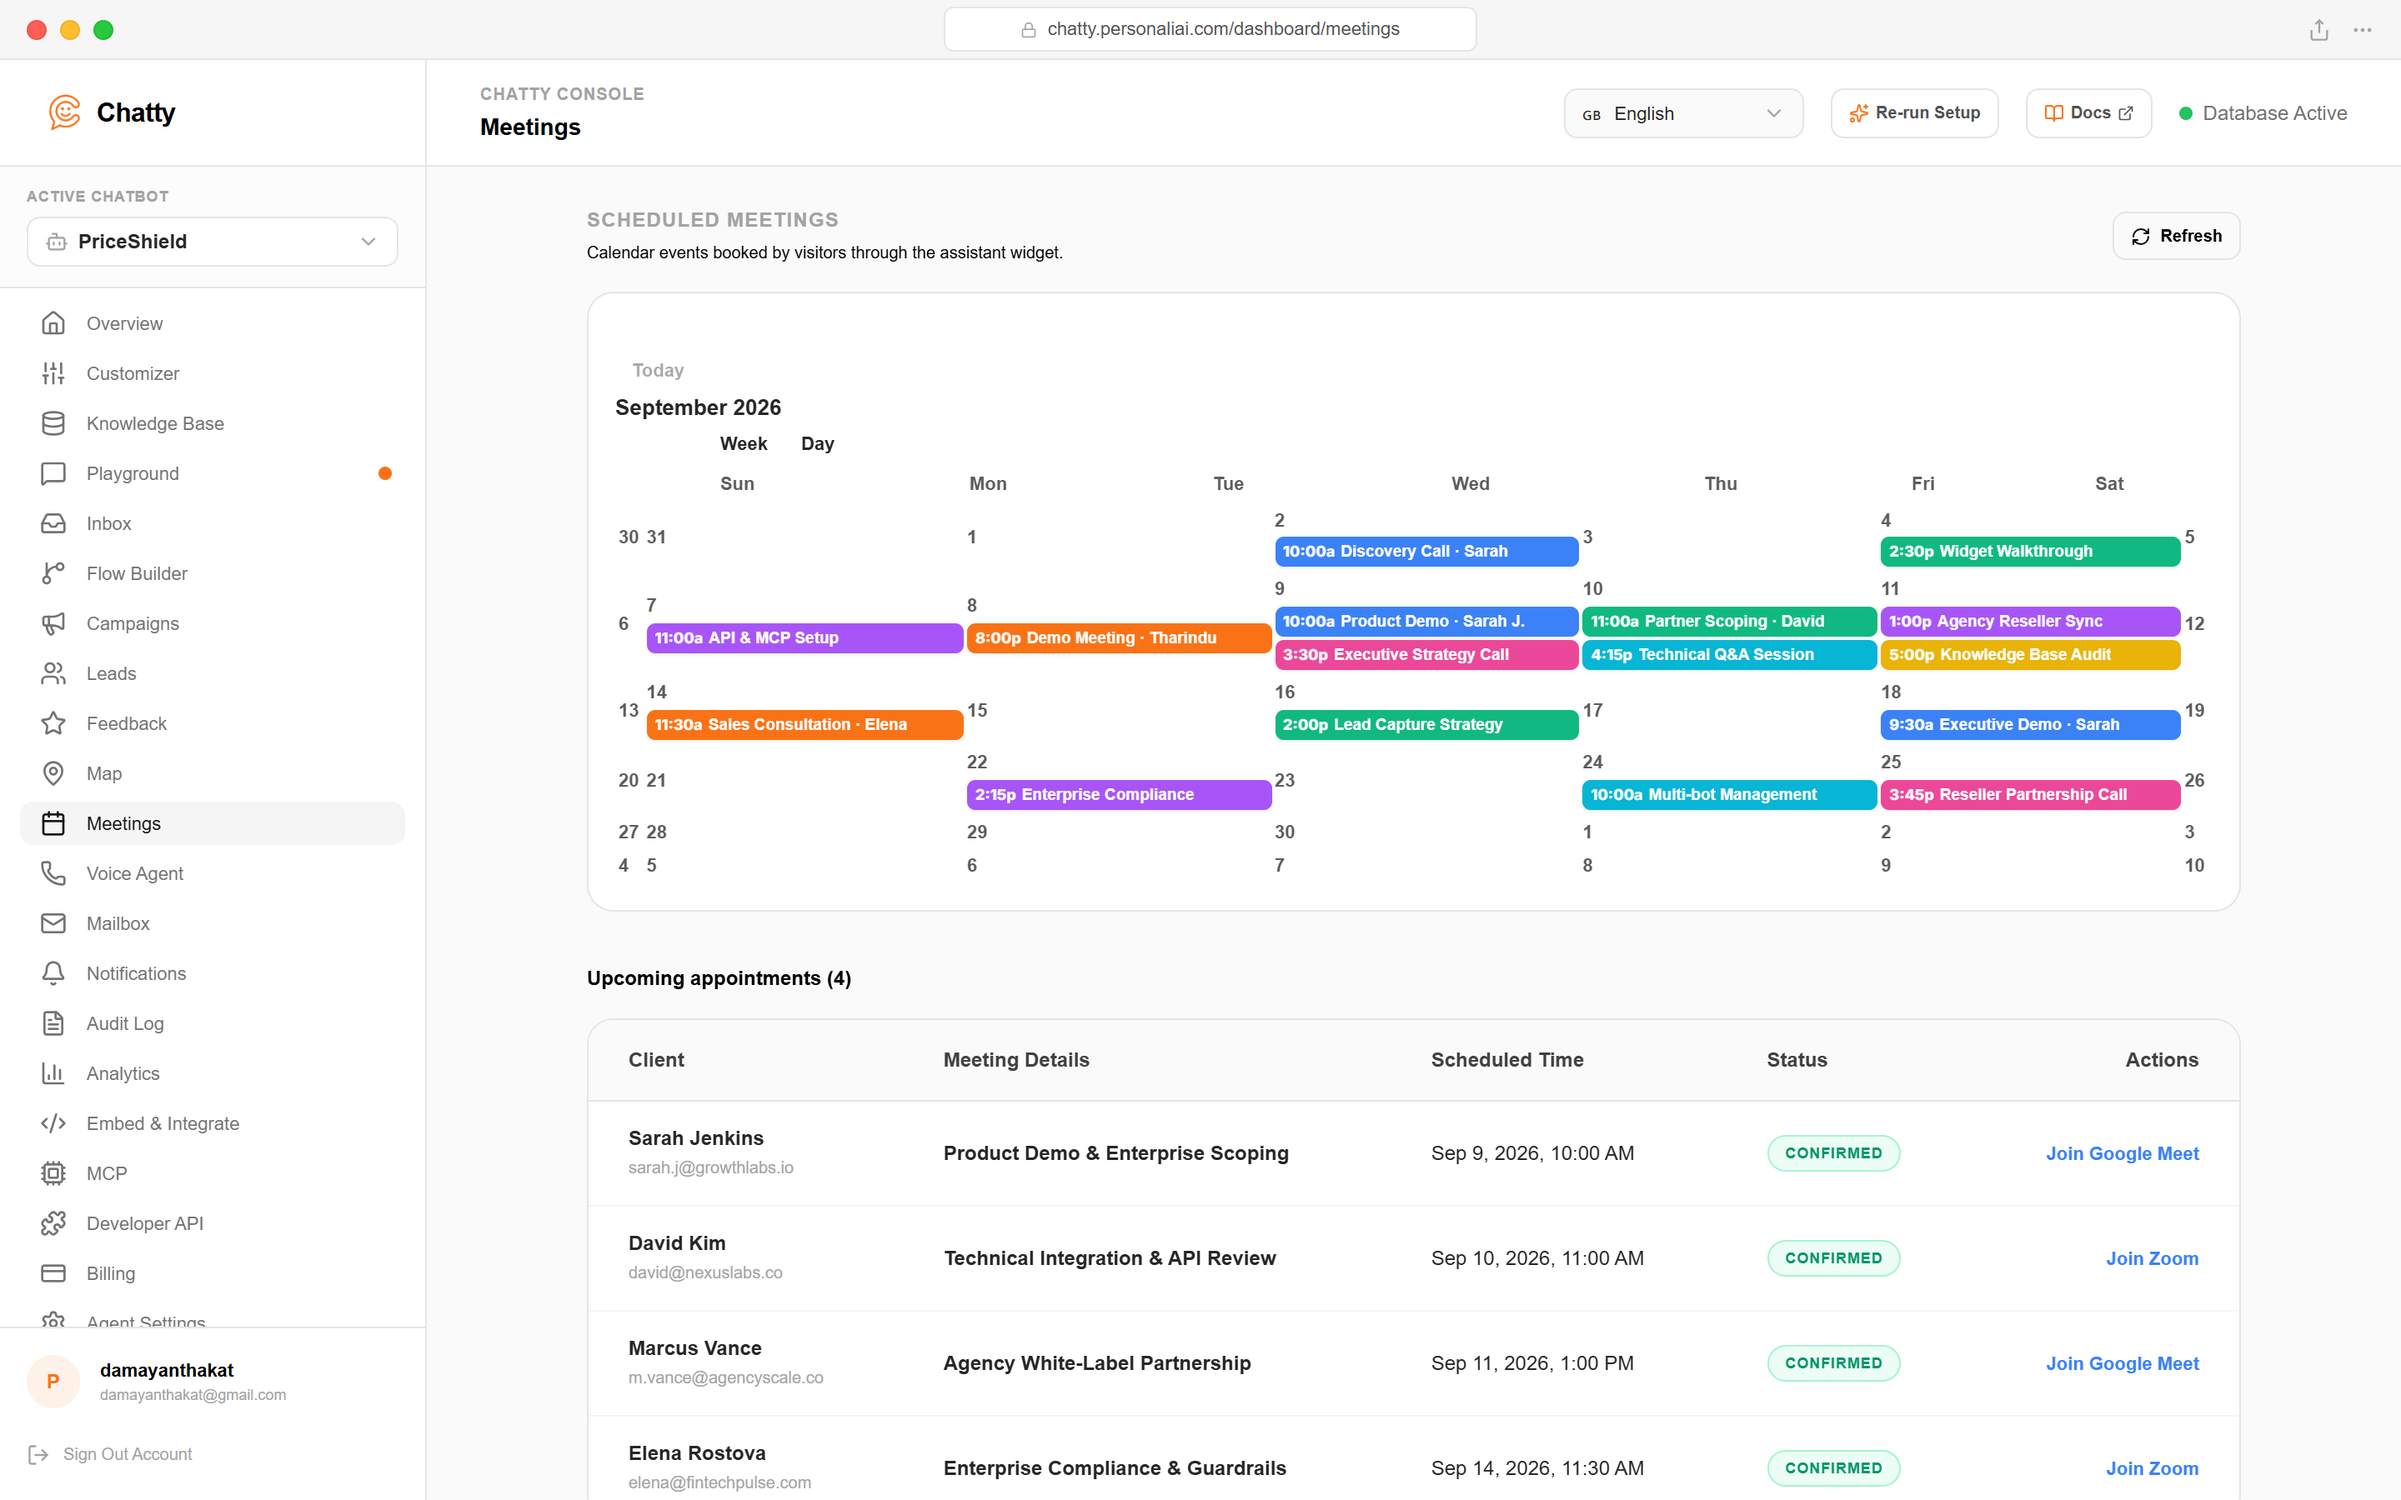
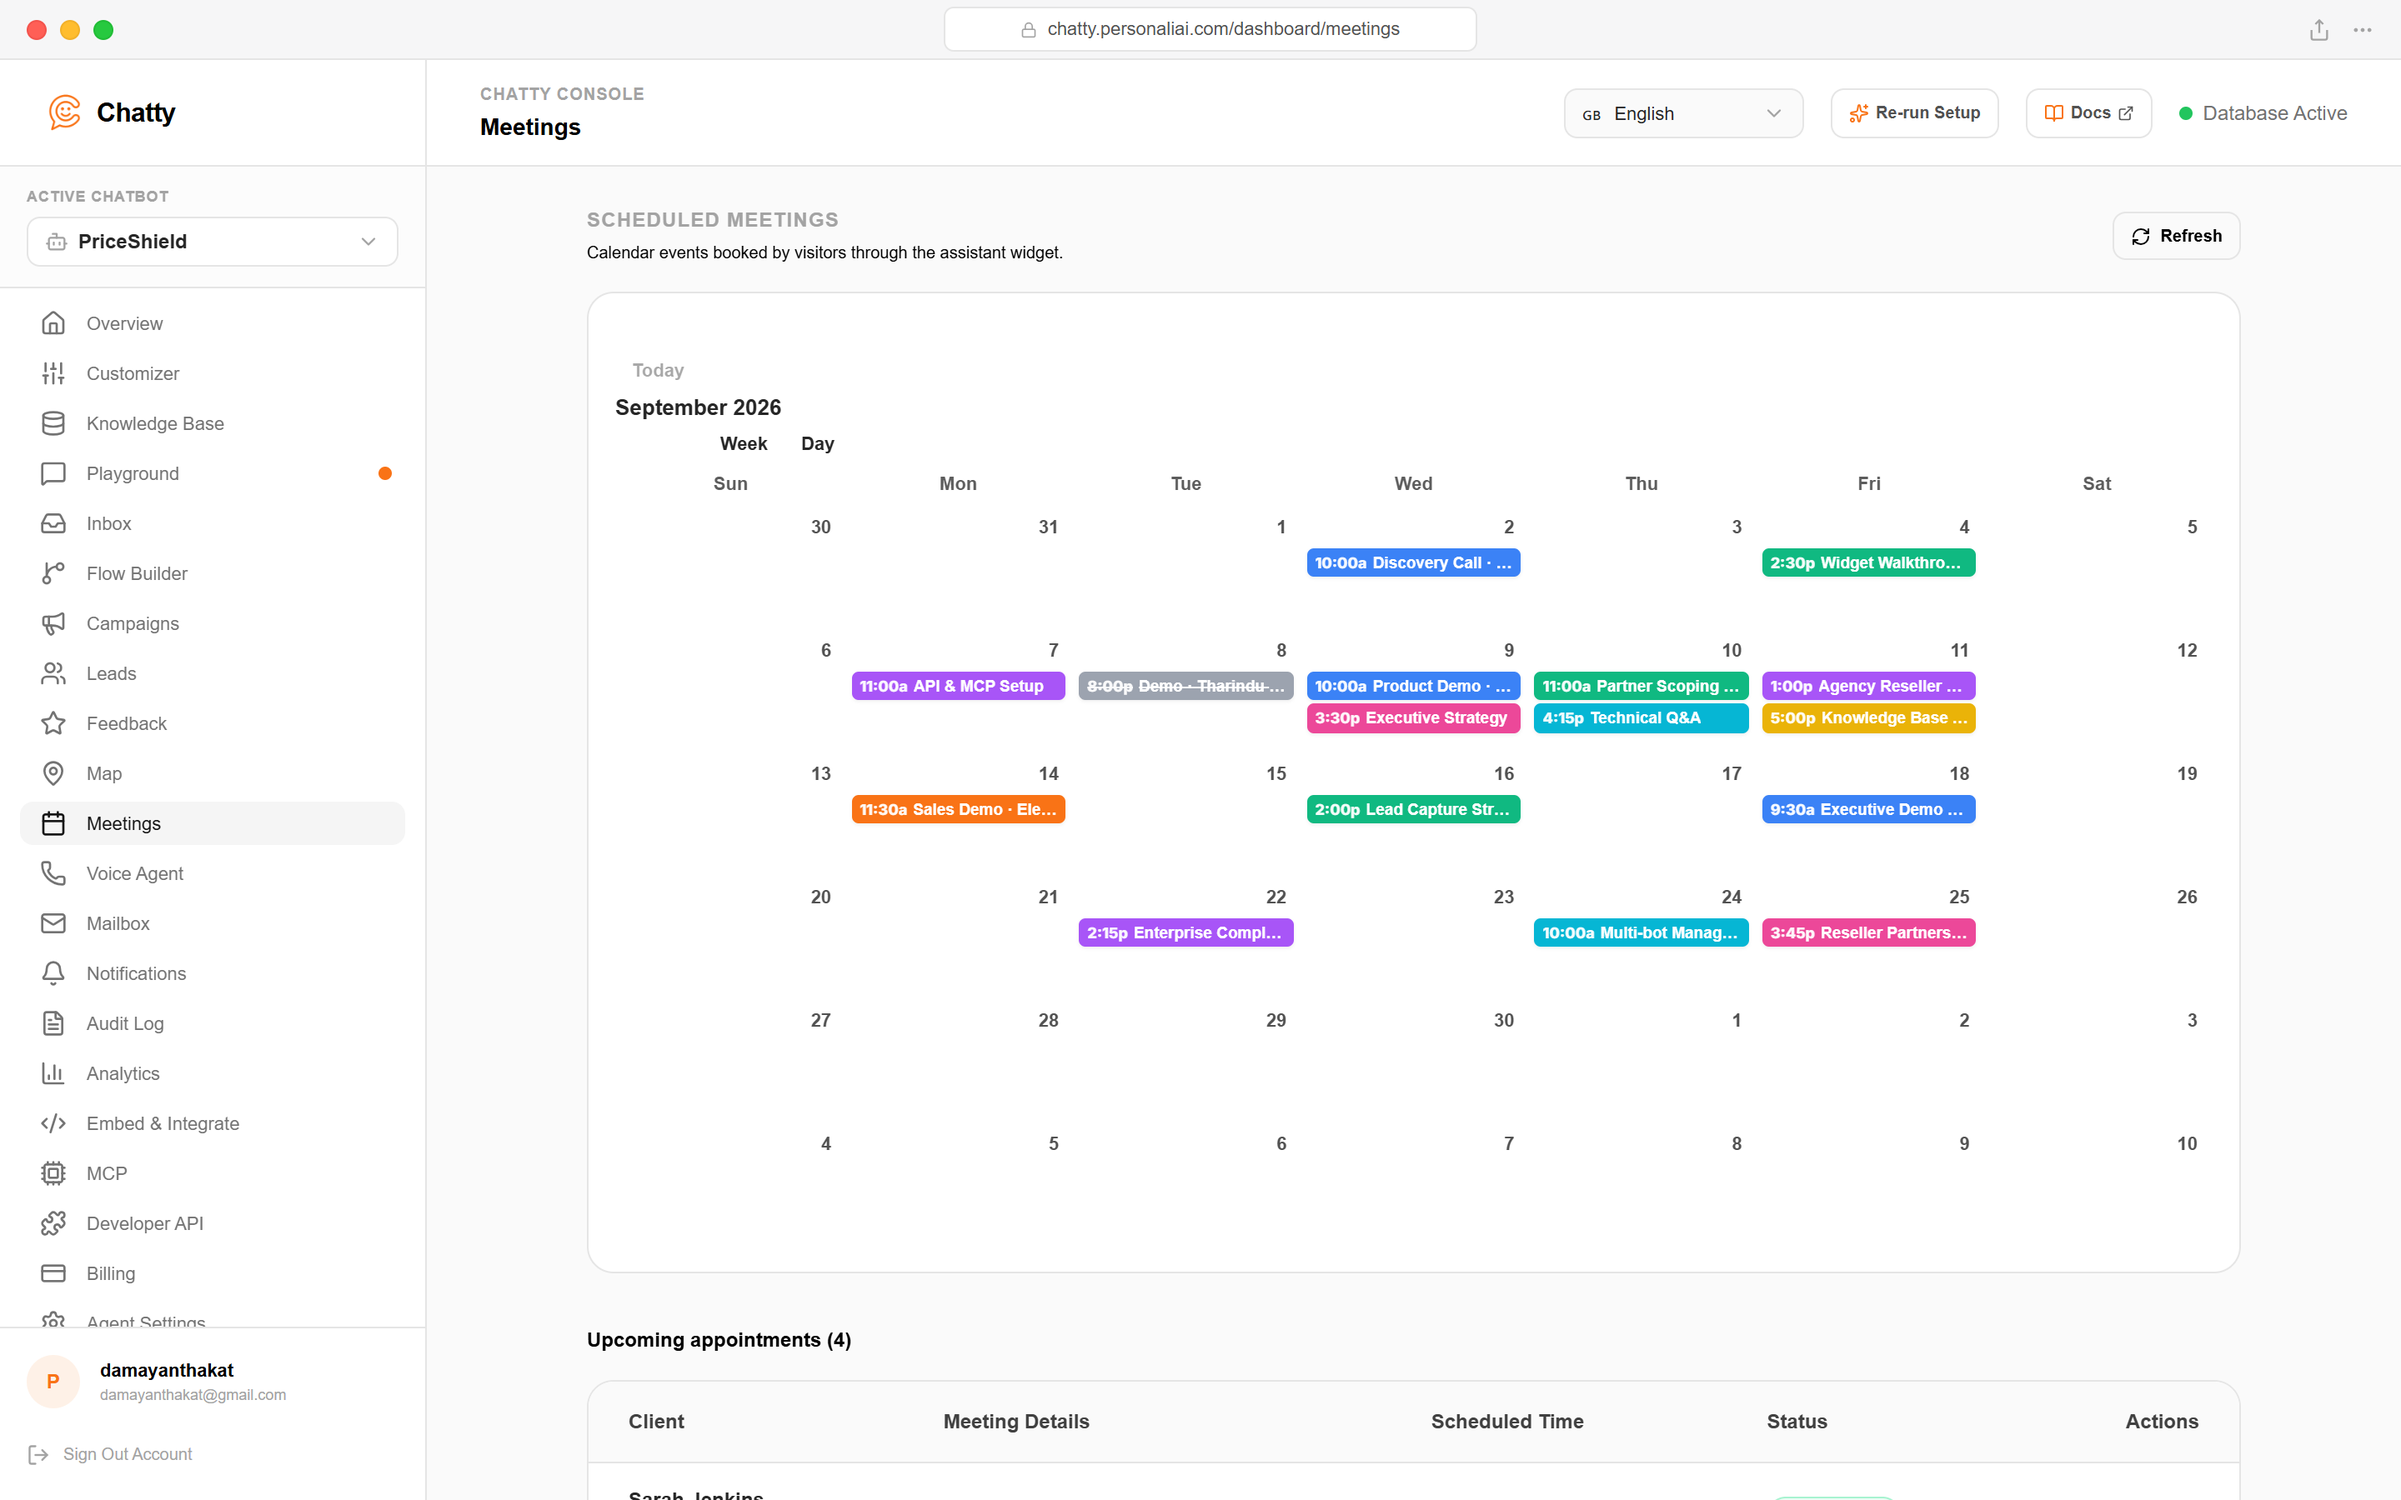
fix(calendar): equalize 7-day grid symmetry, enable multi-color block events in real calendar, and update knowledge links to trypriceshield.com

diff --git a/frontend/src/components/meetings-calendar.tsx b/frontend/src/components/meetings-calendar.tsx
@@ -33,7 +33,7 @@ export function MeetingsCalendar({
     title: m.title || "Meeting",
     start: m.start_time,
     end: m.end_time,
-    backgroundColor: m.status === "cancelled" ? "#a3a3a3" : colorForAssignee(m.assigned_to_email),
+    backgroundColor: m.status === "cancelled" ? "#a3a3a3" : colorForAssignee(m.assigned_to_email || m.title || m.id),
     borderColor: "transparent",
     textColor: "#ffffff",
     classNames: m.status === "cancelled" ? ["chatty-fc-cancelled"] : [],
@@ -107,6 +107,7 @@ export function MeetingsCalendar({
           api.changeView("timeGridDay");
         }}
         events={events}
+        eventDisplay="block"
         height="auto"
         eventClick={(info: EventClickArg) => onSelectMeeting(info.event.id)}
         eventTimeFormat={{ hour: "numeric", minute: "2-digit", meridiem: "short" }}
